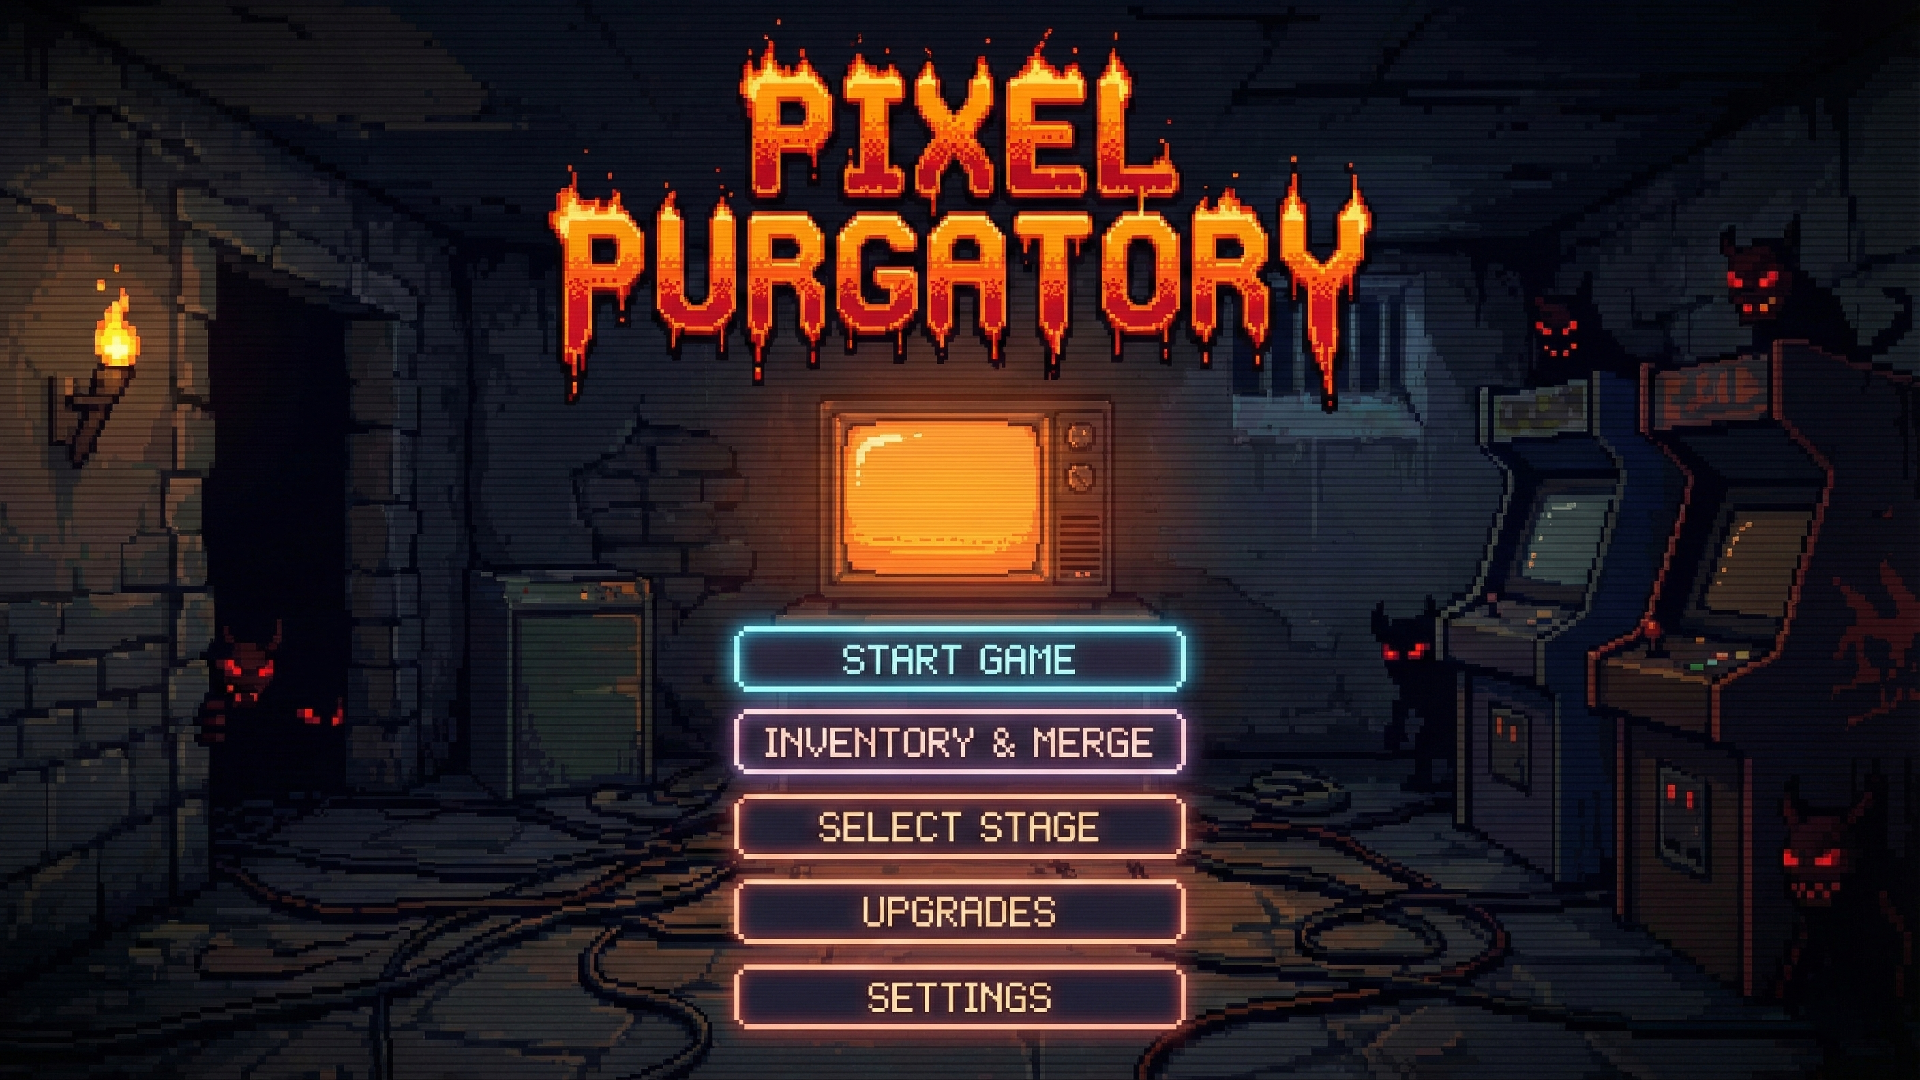
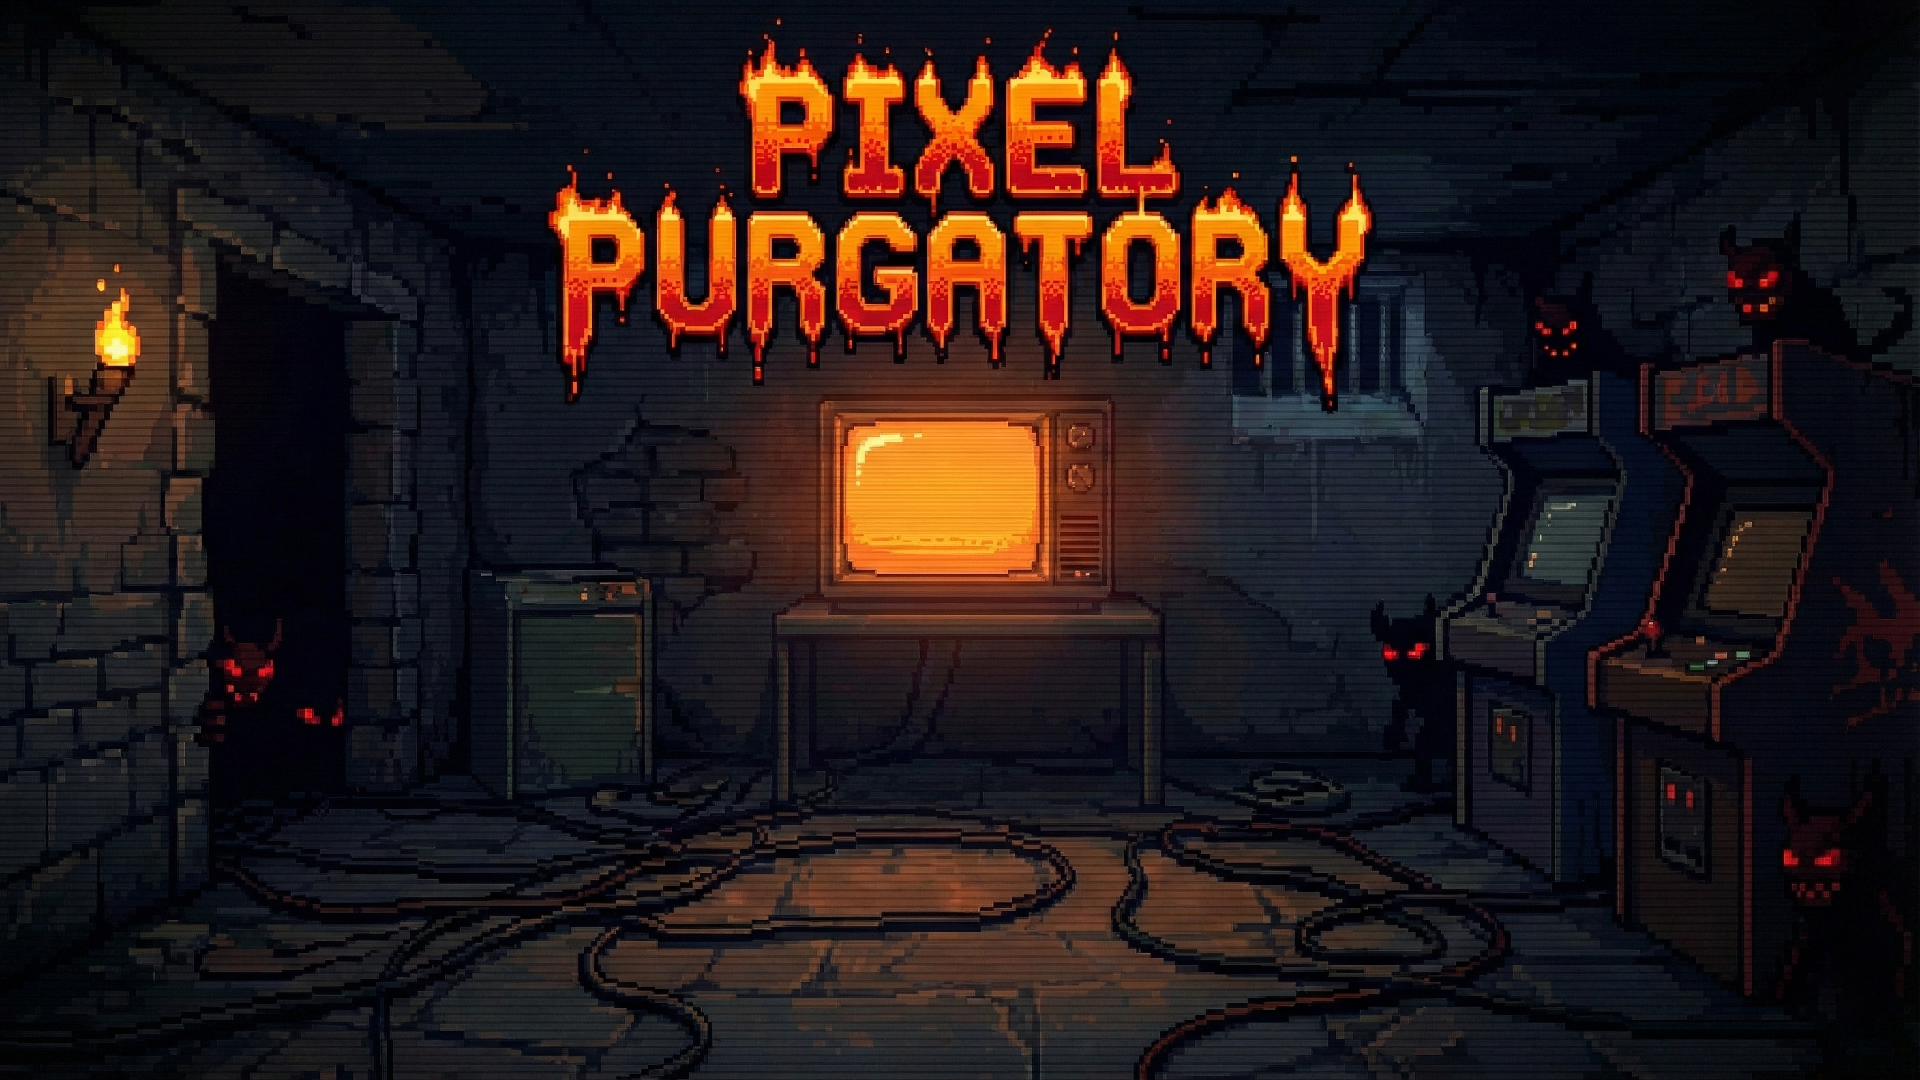
Startscreen neu erstellt

diff --git a/style.css b/style.css
@@ -113,13 +113,15 @@ canvas {
     position: absolute;
     inset: 0;
     display: flex;
-    justify-content: center;
+    flex-direction: column;
+    justify-content: flex-end;
     align-items: center;
     overflow-y: auto;
     z-index: 100;
-    padding: clamp(20px, 4vw, 48px);
-    background: radial-gradient(circle at 20% 20%, rgba(76, 175, 80, 0.12), rgba(26, 26, 26, 0.9) 40%), #0d0d0d;
-    backdrop-filter: blur(4px);
+    background-image: url('assets/start_screen/start_screen_bg.png');
+    background-size: cover;
+    background-position: center;
+    background-repeat: no-repeat;
 }
 
 #start-screen.hidden {
@@ -127,16 +129,17 @@ canvas {
 }
 
 .start-card {
-    width: min(1100px, 100%);
-    background: rgba(20, 20, 20, 0.95);
-    border: 1px solid #2f2f2f;
-    border-radius: 16px;
-    padding: clamp(16px, 3vw, 28px);
-    box-shadow: 0 20px 60px rgba(0, 0, 0, 0.6);
-    display: grid;
-    grid-template-columns: 1.15fr 1fr;
-    gap: clamp(18px, 3vw, 30px);
+    width: 100%;
+    height: 100%;
+    display: flex;
+    flex-direction: column;
+    justify-content: flex-end;
     align-items: center;
+    padding: 0;
+    gap: 16px;
+    background: none;
+    border: none;
+    box-shadow: none;
 }
 
 .title-block {
@@ -154,13 +157,8 @@ canvas {
     font-size: 0.9rem;
 }
 
-.game-title {
-    margin: 0;
-    font-size: clamp(2.6rem, 7vw, 6rem);
-    color: #7fffb7;
-    text-shadow: 0 0 24px rgba(76, 175, 80, 0.45);
-    text-align: center;
-    line-height: 1.05;
+#start-screen .game-title {
+    display: none;
 }
 
 .tagline {
@@ -173,58 +171,56 @@ canvas {
 
 .menu-grid,
 .menu-container {
-    display: grid;
-    grid-template-columns: repeat(auto-fit, minmax(190px, 1fr));
-    gap: 14px;
-    width: 100%;
+    display: flex;
+    flex-direction: column;
+    gap: 20px;
+    align-items: center;
+    width: clamp(260px, 80vw, 600px);
+    margin-bottom: 60px;
+}
+
+@media (max-height: 520px) {
+    .menu-grid,
+    .menu-container {
+        margin-bottom: 36px;
+    }
 }
 
 .menu-btn {
     width: 100%;
-    padding: clamp(14px, 2.4vw, 18px);
+    padding: 16px;
     font-family: inherit;
     font-weight: bold;
-    border: 2px solid transparent;
+    border-radius: 999px;
+    border: 2px solid #5af0ff;
+    background: rgba(0, 0, 0, 0.65);
+    color: #ffffff;
     cursor: pointer;
-    transition: all 0.2s;
     text-transform: uppercase;
-    box-shadow: 0 4px 6px rgba(0,0,0,0.3);
-    border-radius: 10px;
-    min-height: 64px;
+    letter-spacing: 0.08em;
+    text-shadow: 0 0 4px rgba(0, 0, 0, 0.9);
+    box-shadow: 0 0 8px rgba(0, 0, 0, 0.8);
+    transition: transform 0.1s ease, box-shadow 0.1s ease, background 0.1s ease;
+    min-height: 56px;
+}
+
+.menu-btn:hover {
+    transform: translateY(-1px);
+    box-shadow: 0 0 14px rgba(255, 255, 255, 0.3);
+    background: rgba(0, 0, 0, 0.8);
 }
 
 .menu-btn.primary {
-    background: #4caf50;
-    color: white;
-    font-size: clamp(1.1rem, 2vw, 1.4rem);
-    letter-spacing: 0.05em;
-    grid-column: 1 / -1;
-}
-
-.menu-btn.primary:hover {
-    background: #45a049;
-    transform: scale(1.05);
+    border-color: #5af0ff;
+    box-shadow: 0 0 15px rgba(90, 240, 255, 0.9);
 }
 
 .menu-btn.secondary {
-    background: linear-gradient(140deg, #191919, #111);
-    color: #ccc;
-    font-size: clamp(1rem, 1.8vw, 1.1rem);
-    border: 1px solid #3d3d3d;
-}
-
-.menu-btn.secondary:hover {
-    background: #262626;
-    border-color: #5e5e5e;
-    color: #f5f5f5;
+    border-color: #ff9ad5;
+    box-shadow: 0 0 12px rgba(255, 154, 213, 0.7);
 }
 
 @media (max-width: 360px) {
-    .start-card {
-        grid-template-columns: 1fr;
-        text-align: center;
-    }
-
     .title-block {
         align-items: center;
     }
@@ -240,22 +236,12 @@ canvas {
 }
 
 @media (max-height: 680px) {
-    .start-card {
-        gap: 12px;
-        padding: clamp(12px, 2vw, 18px);
-    }
-
     .menu-btn {
         min-height: 56px;
     }
 }
 
 @media (max-width: 520px) {
-    .start-card {
-        padding: 14px;
-        gap: 12px;
-    }
-
     .title-block {
         gap: 8px;
     }
